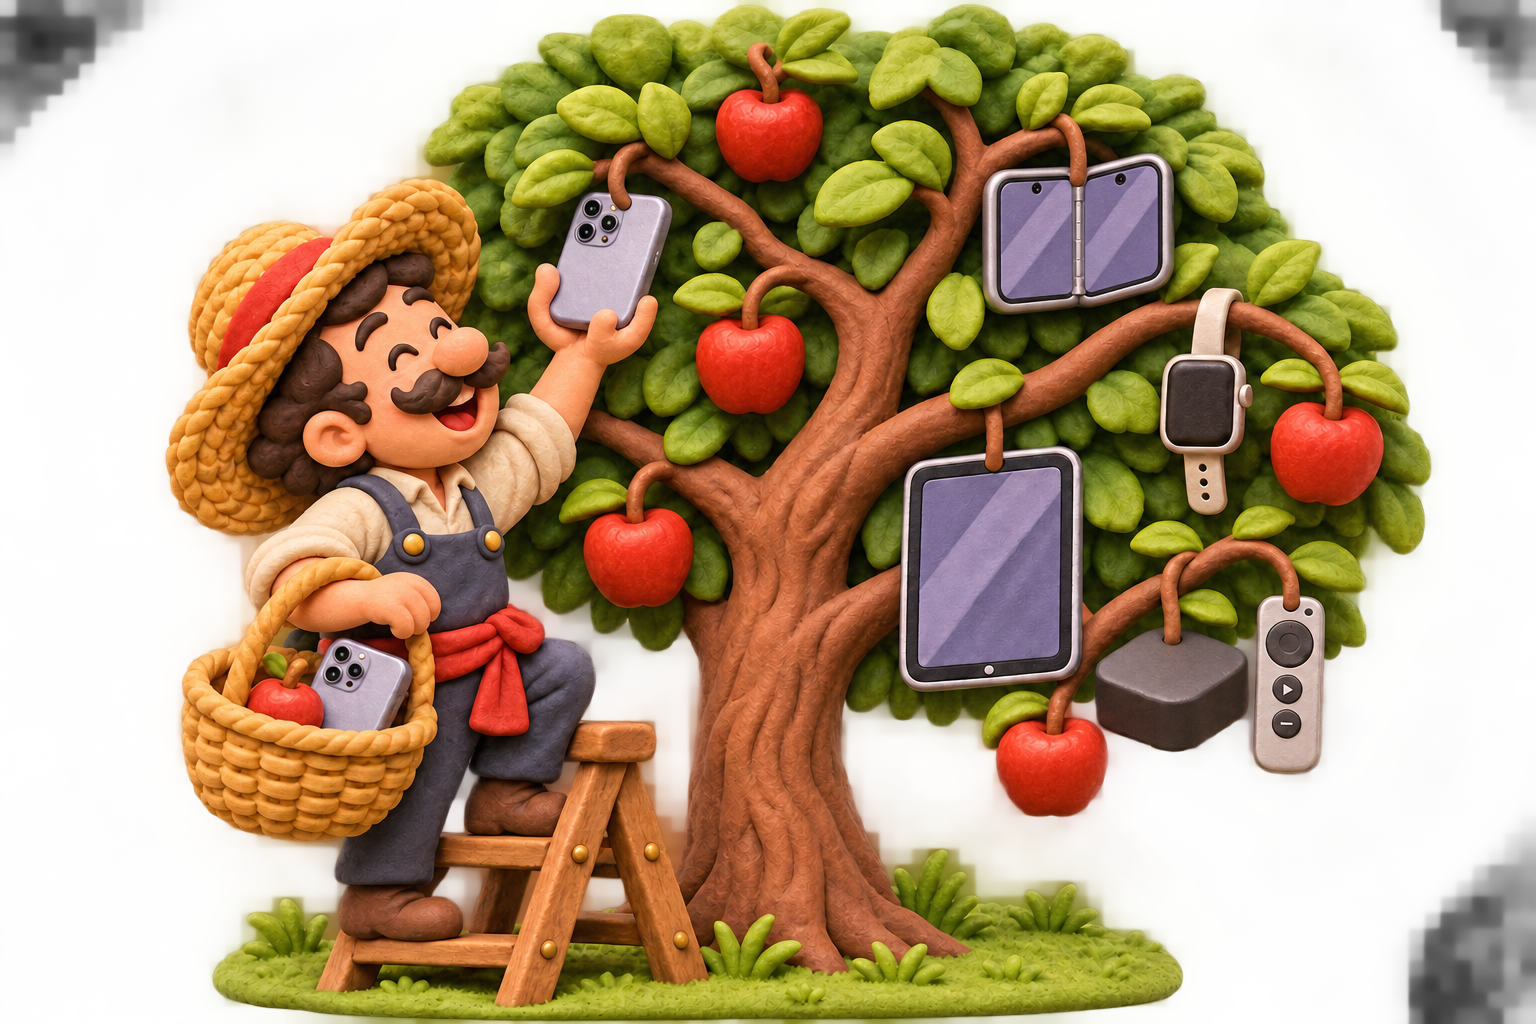
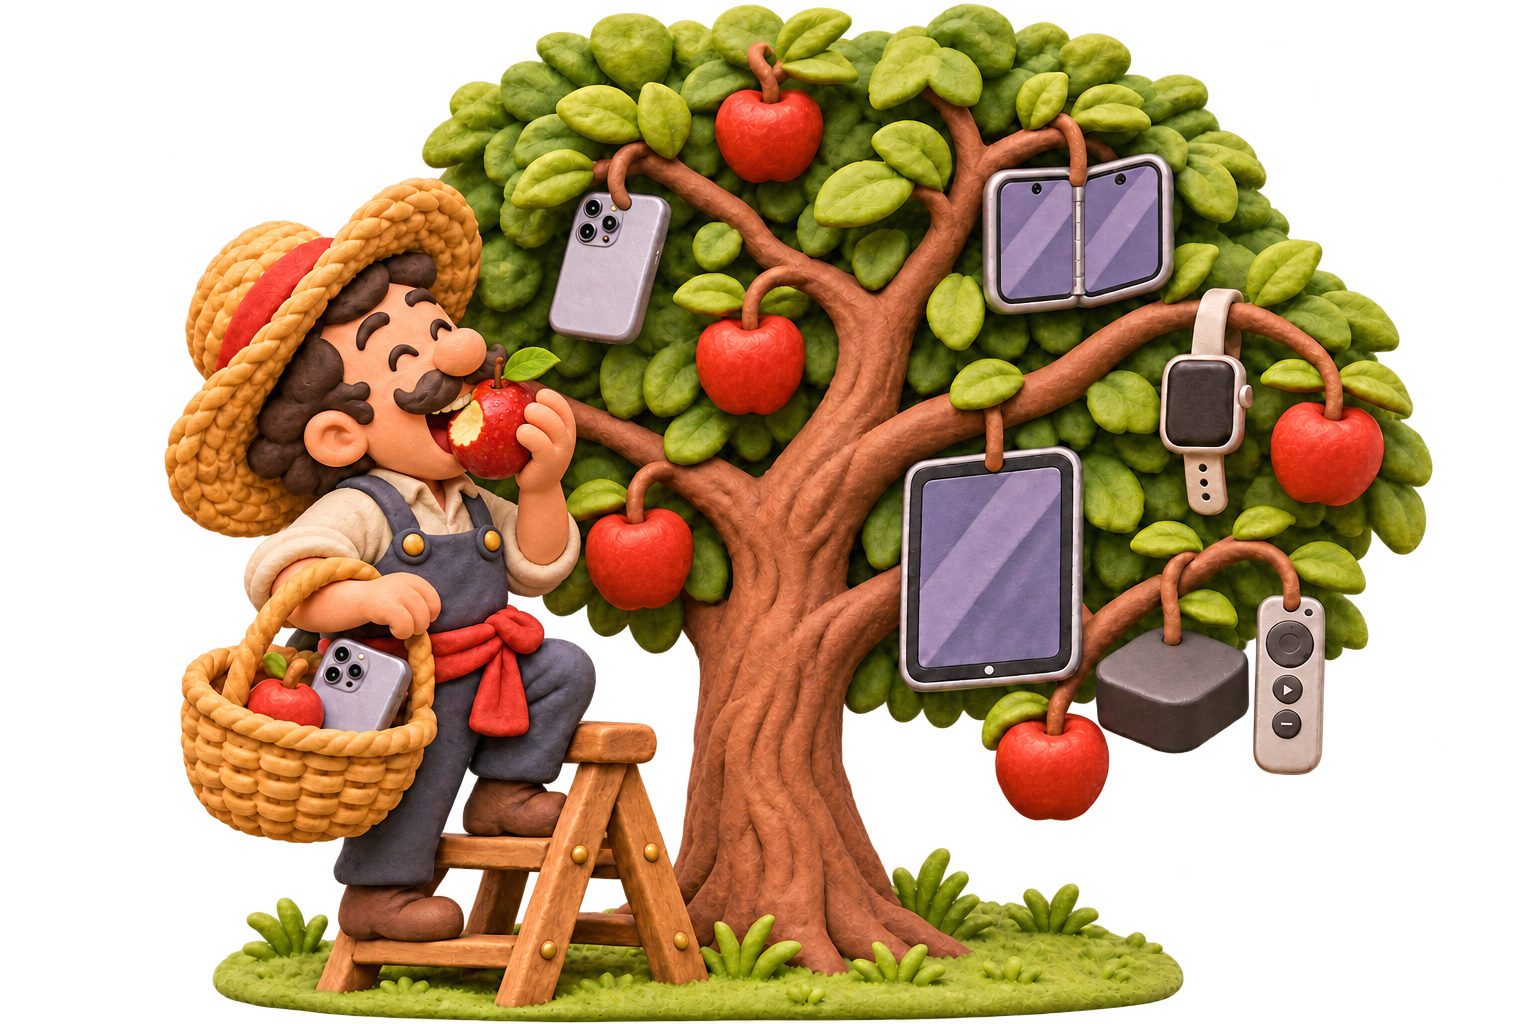
Show the orchard worker biting an apple in all illustrations

diff --git a/readme.md b/readme.md
@@ -4,7 +4,7 @@ Manzanero lets you inspect and control Apple devices from your Mac, either throu
 
 *Manzanero* is Spanish for an apple tree or a person who grows or gathers apples—a fitting name for a tool that tends to your Apple devices.
 
-<img src="docs/assets/manzanero.png" alt="A cheerful apple picker harvesting phones, a tablet, a watch and an Apple TV with its remote from an apple tree." width="560">
+<img src="docs/assets/manzanero.png" alt="A cheerful orchard worker biting an apple beside a tree growing a phone, a foldable iPhone Duo, a tablet, a watch and an Apple TV with its remote." width="560">
 
 The project is in beta. Physical iPhone control is the current priority, and reliable unattended testing is still unfinished. iPhone, iPad, Apple Watch, Apple TV and iPhone Duo are in scope, with support varying by device and operation. Most live evidence comes from one iPhone 13 mini; see [feature status](docs/feature-status.md) before relying on another device or operation.
 
